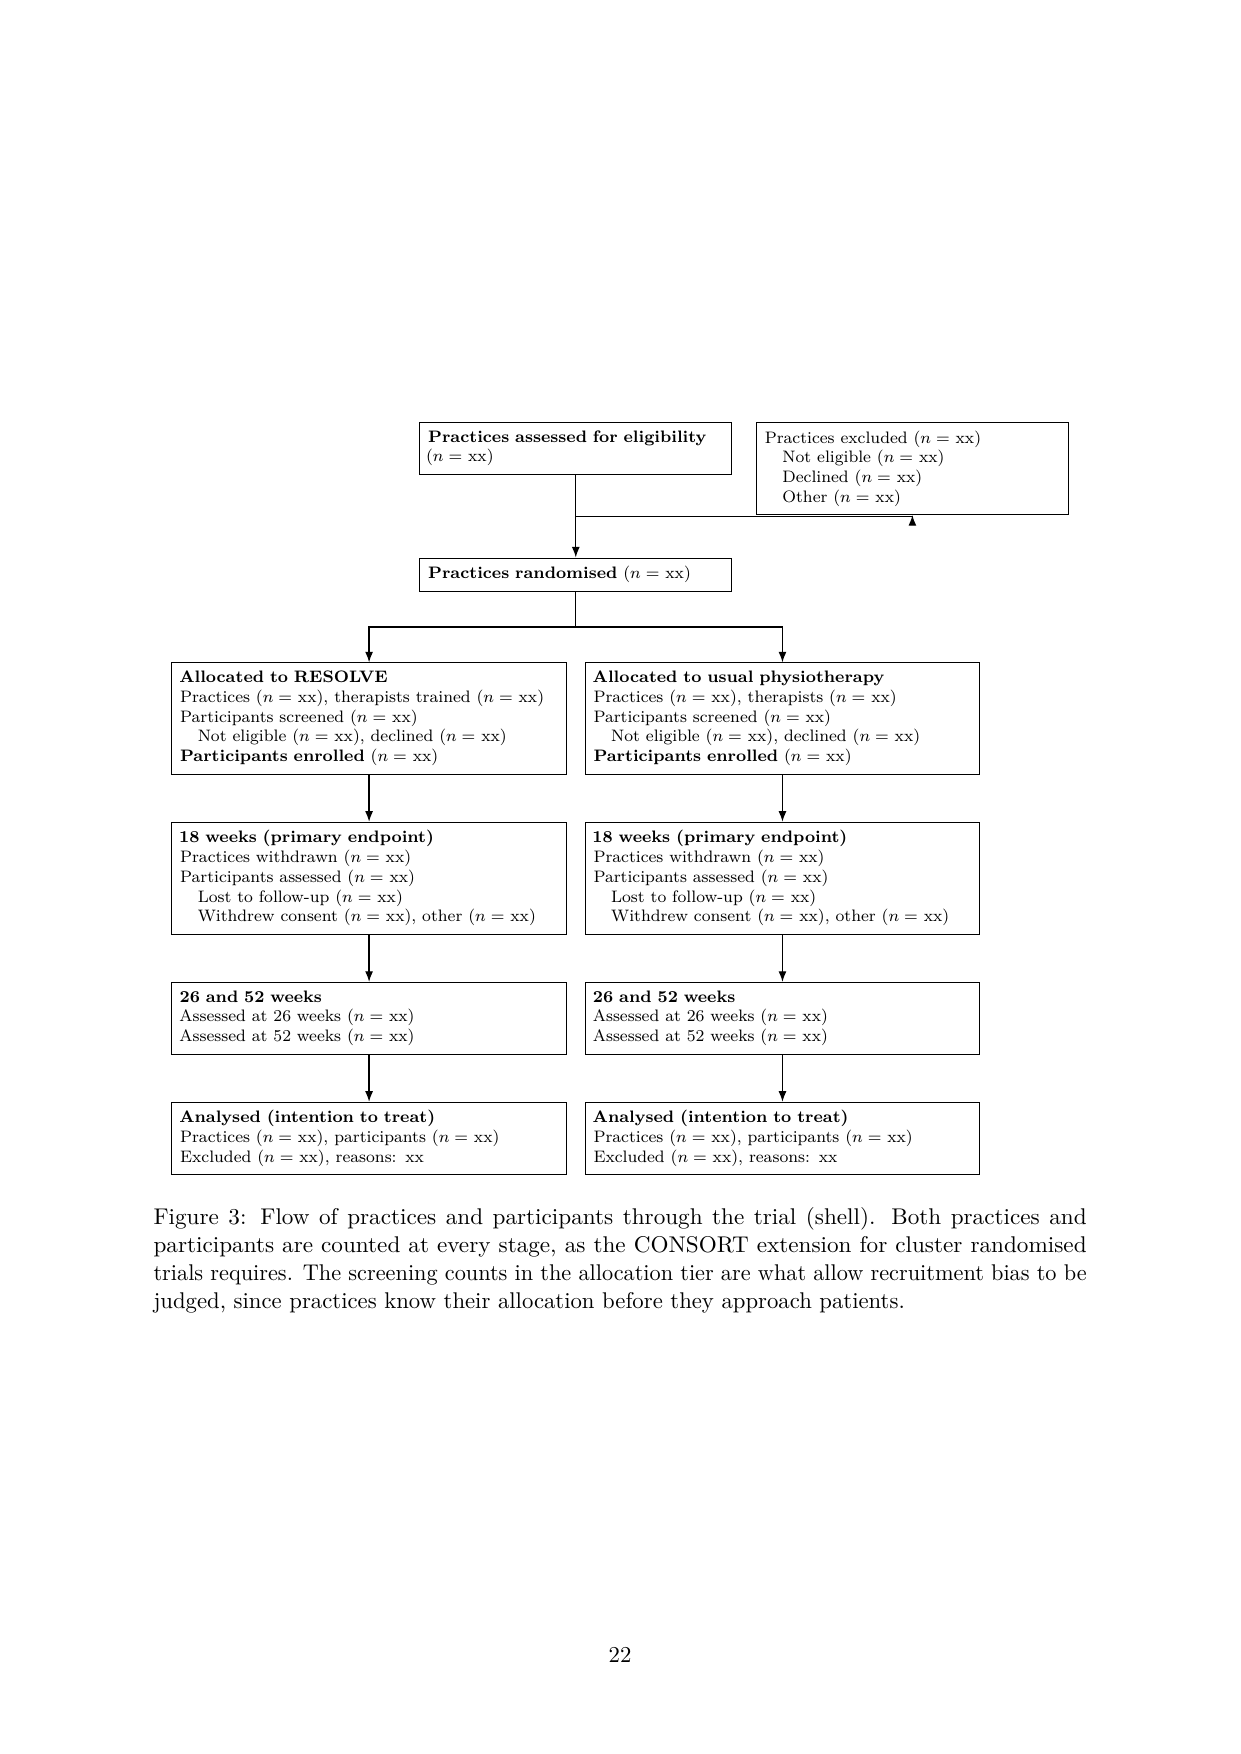
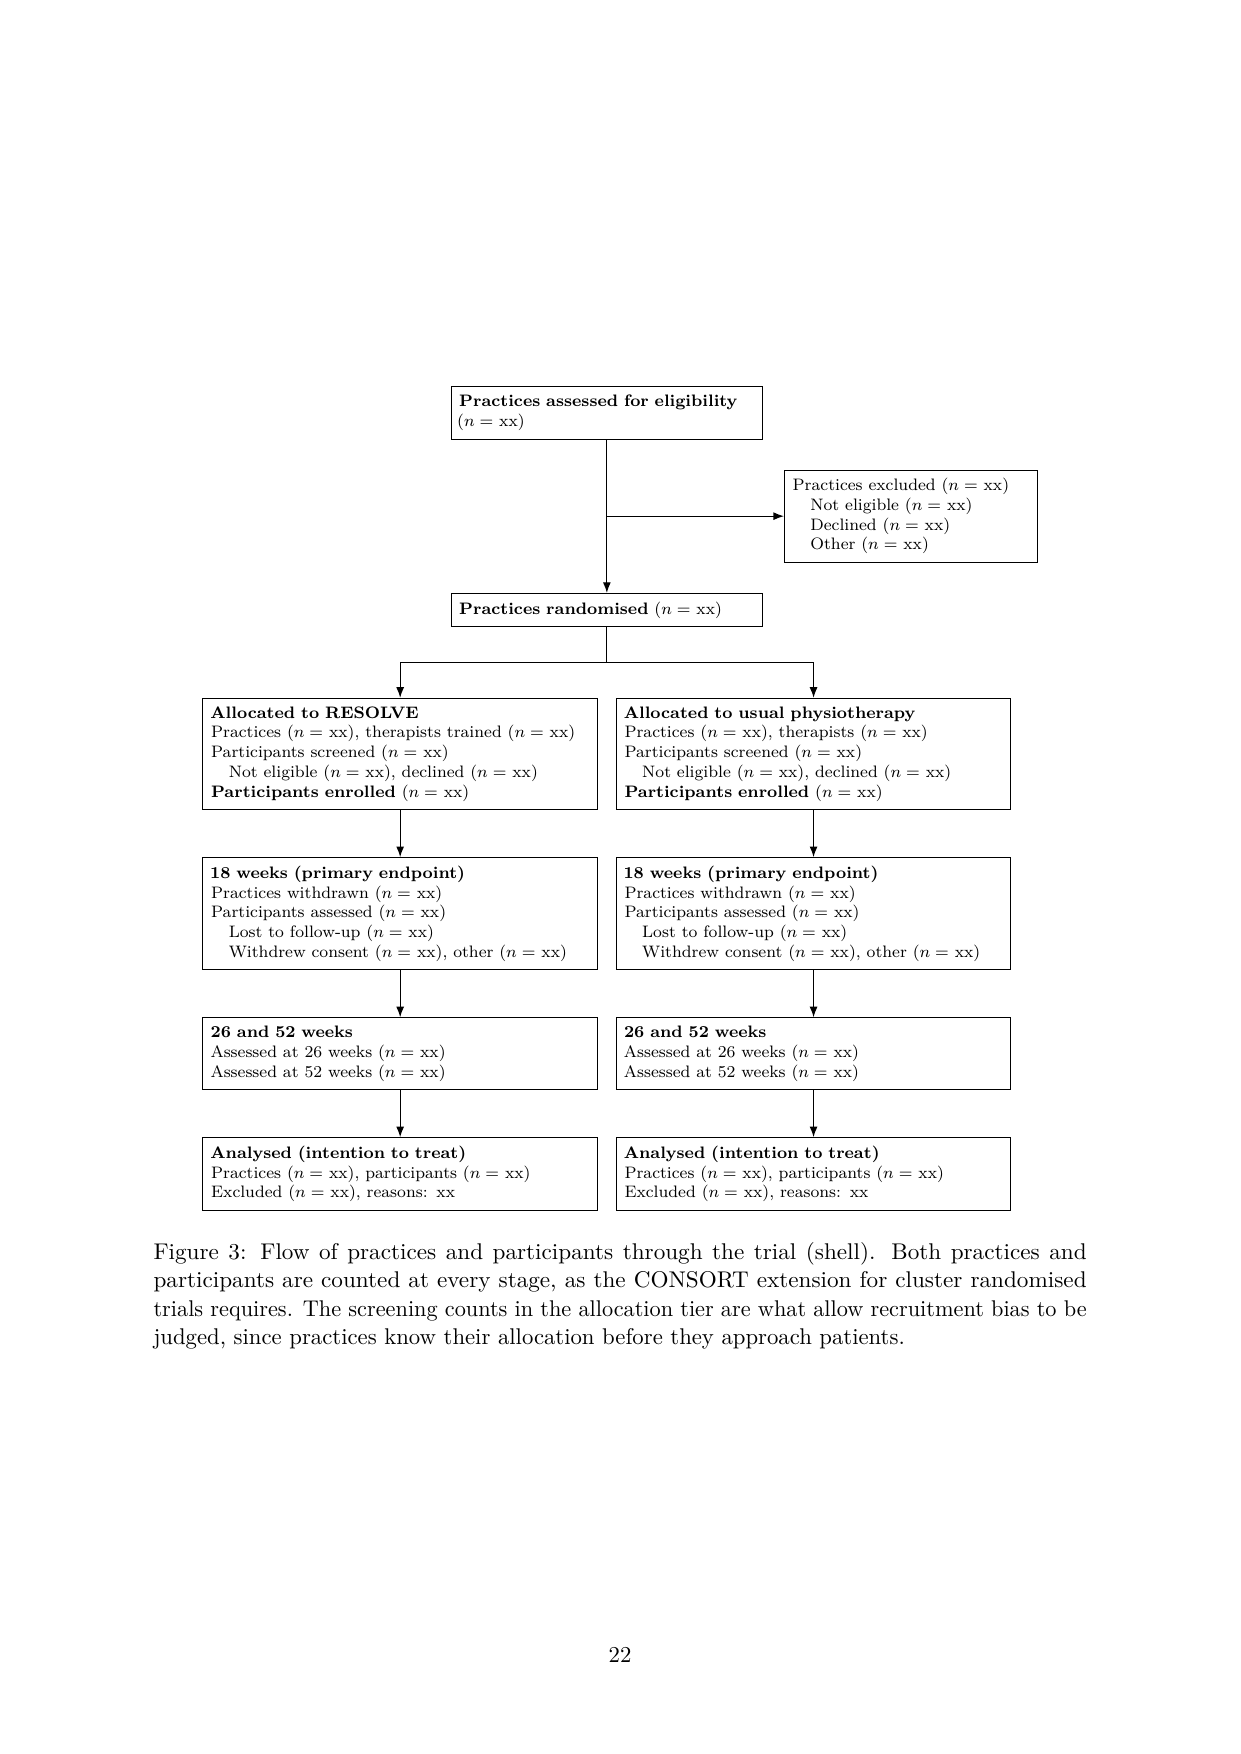
Put the first exclusion box beside the trunk with a clean horizontal branch

Changed region(s): [[0.1225, 0.3079, 0.888, 0.7697], [0.3368, 0.2155, 0.5818, 0.2771], [0.6124, 0.2463, 0.7655, 0.3079]]

diff --git a/paper.tex b/paper.tex
@@ -999,16 +999,17 @@ individuals at every stage \citep{campbell2012}.
 % ---- trunk: practices --------------------------------------------------
 \node[bx=50mm, anchor=north] (elig) at (0,0)
   {\textbf{Practices assessed for eligibility}\\ ($n=$ xx)};
-\node[bx=50mm, anchor=north] (exc) at ([xshift=57mm]elig.north)
+\node[bx=50mm, anchor=north] (rand) at ([yshift=-26mm]elig.south)
+  {\textbf{Practices randomised} ($n=$ xx)};
+\coordinate (excbranch) at ($(elig.south)!0.5!(rand.north)$);
+\node[bx=40mm, anchor=west] (exc) at ([xshift=30mm]excbranch)
   {Practices excluded ($n=$ xx)\\
    \quad Not eligible ($n=$ xx)\\
    \quad Declined ($n=$ xx)\\
    \quad Other ($n=$ xx)};
-\node[bx=50mm, anchor=north] (rand) at ([yshift=-14mm]elig.south)
-  {\textbf{Practices randomised} ($n=$ xx)};
 
 \draw[arr] (elig.south) -- (rand.north);
-\draw[arr] ($(elig.south)!0.5!(rand.north)$) -- ++(0,0) -| ($(exc.south)+(0,0)$);
+\draw[arr] (excbranch) -- (exc.west);
 
 % ---- allocation --------------------------------------------------------
 \node[bx=64mm, anchor=north] (allocI) at ([xshift=-35mm,yshift=-12mm]rand.south)
